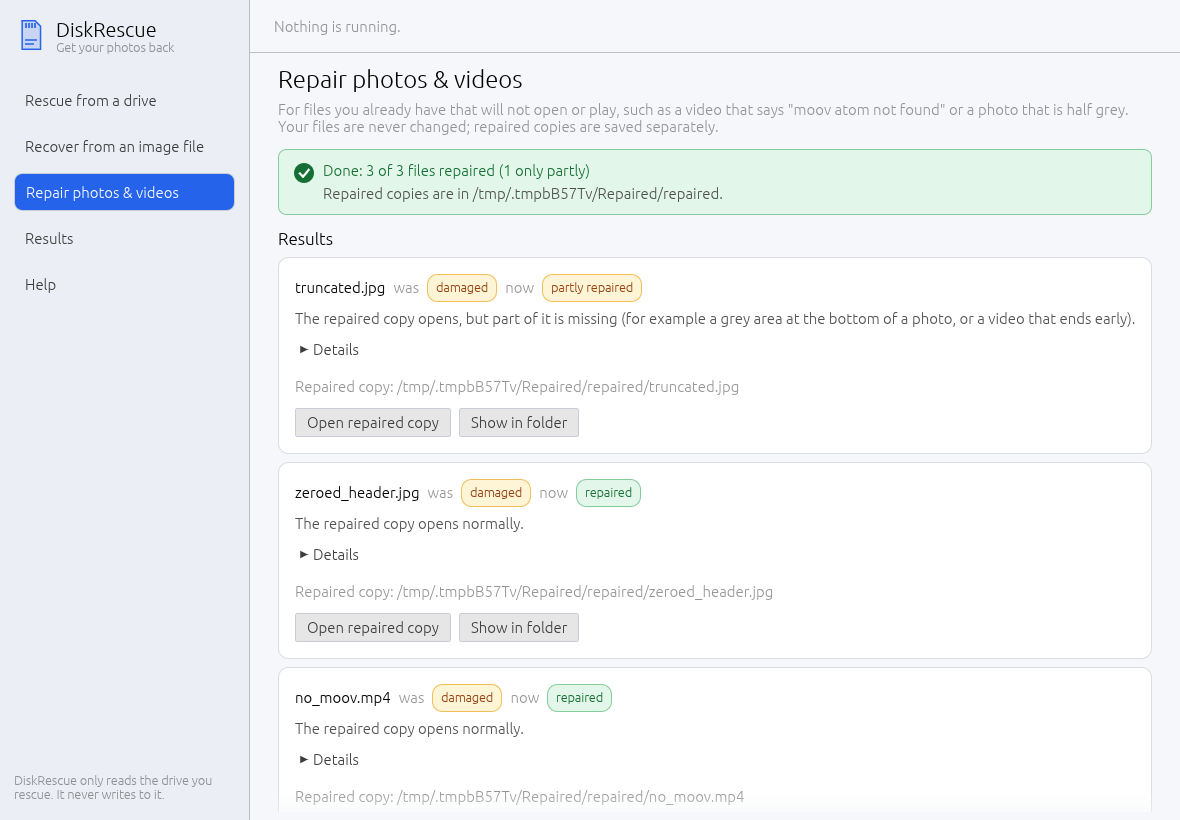
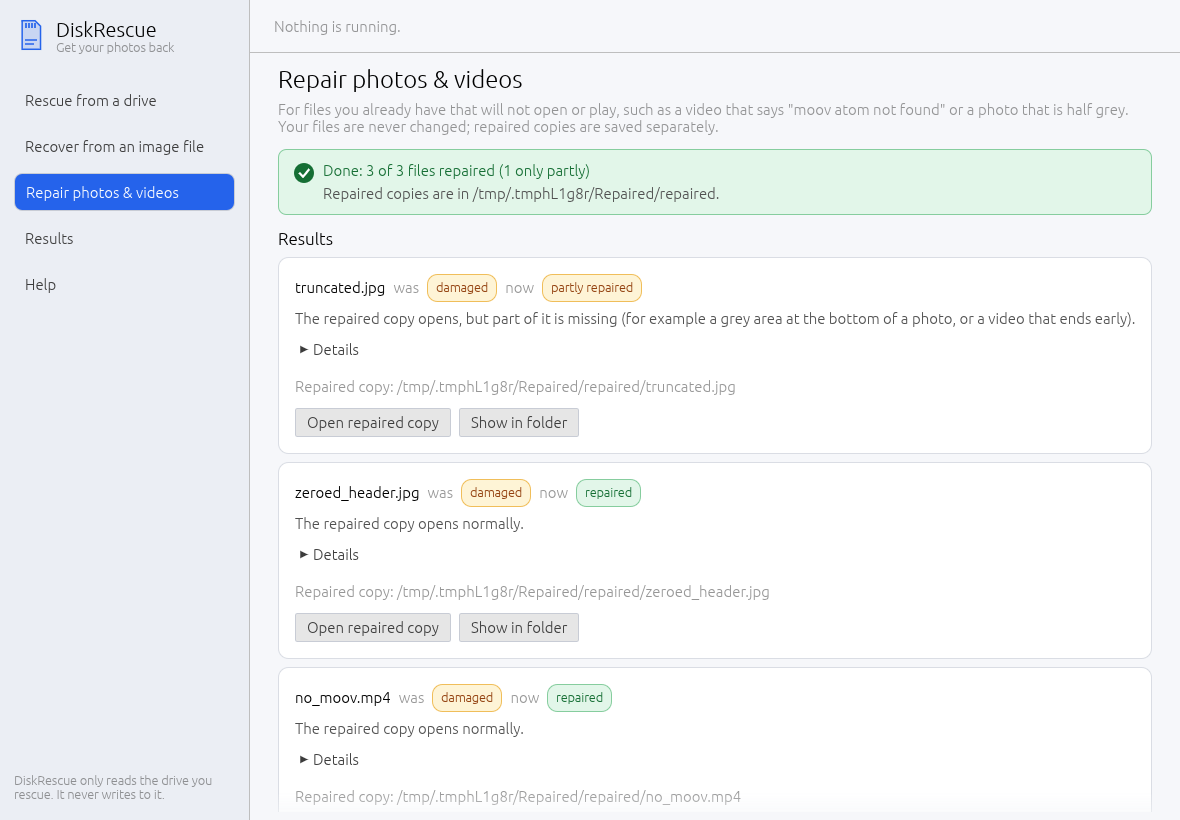
fix(gui): exact results grid rows; the reference picker closes with Escape

diff --git a/crates/diskrescue-gui/src/results.rs b/crates/diskrescue-gui/src/results.rs
@@ -365,7 +365,8 @@ impl Results {
         }
         let side = 132.0;
         let cell_w = side + 12.0;
-        let cell_h = side + 22.0 + 12.0;
+        // Row height without the spacing (egui adds it): one tile.
+        let cell_h = side + 22.0;
         let cols = ((ui.available_width() + 12.0) / cell_w).floor().max(1.0) as usize;
         let rows = visible.len().div_ceil(cols);
         egui::ScrollArea::vertical()
@@ -765,7 +766,7 @@ impl Results {
         let mut close = false;
         let mut browse = false;
         let target_item = self.items[target].clone();
-        egui::Modal::new(egui::Id::new("donor_picker")).show(ui.ctx(), |ui| {
+        let modal = egui::Modal::new(egui::Id::new("donor_picker")).show(ui.ctx(), |ui| {
             ui.set_width(520.0);
             ui.heading("Repair with a reference file");
             ui.label(format!(
@@ -856,7 +857,7 @@ impl Results {
                 }));
             }
         }
-        if close {
+        if close || (modal.should_close() && !busy) {
             self.donor = None;
             return None;
         }
